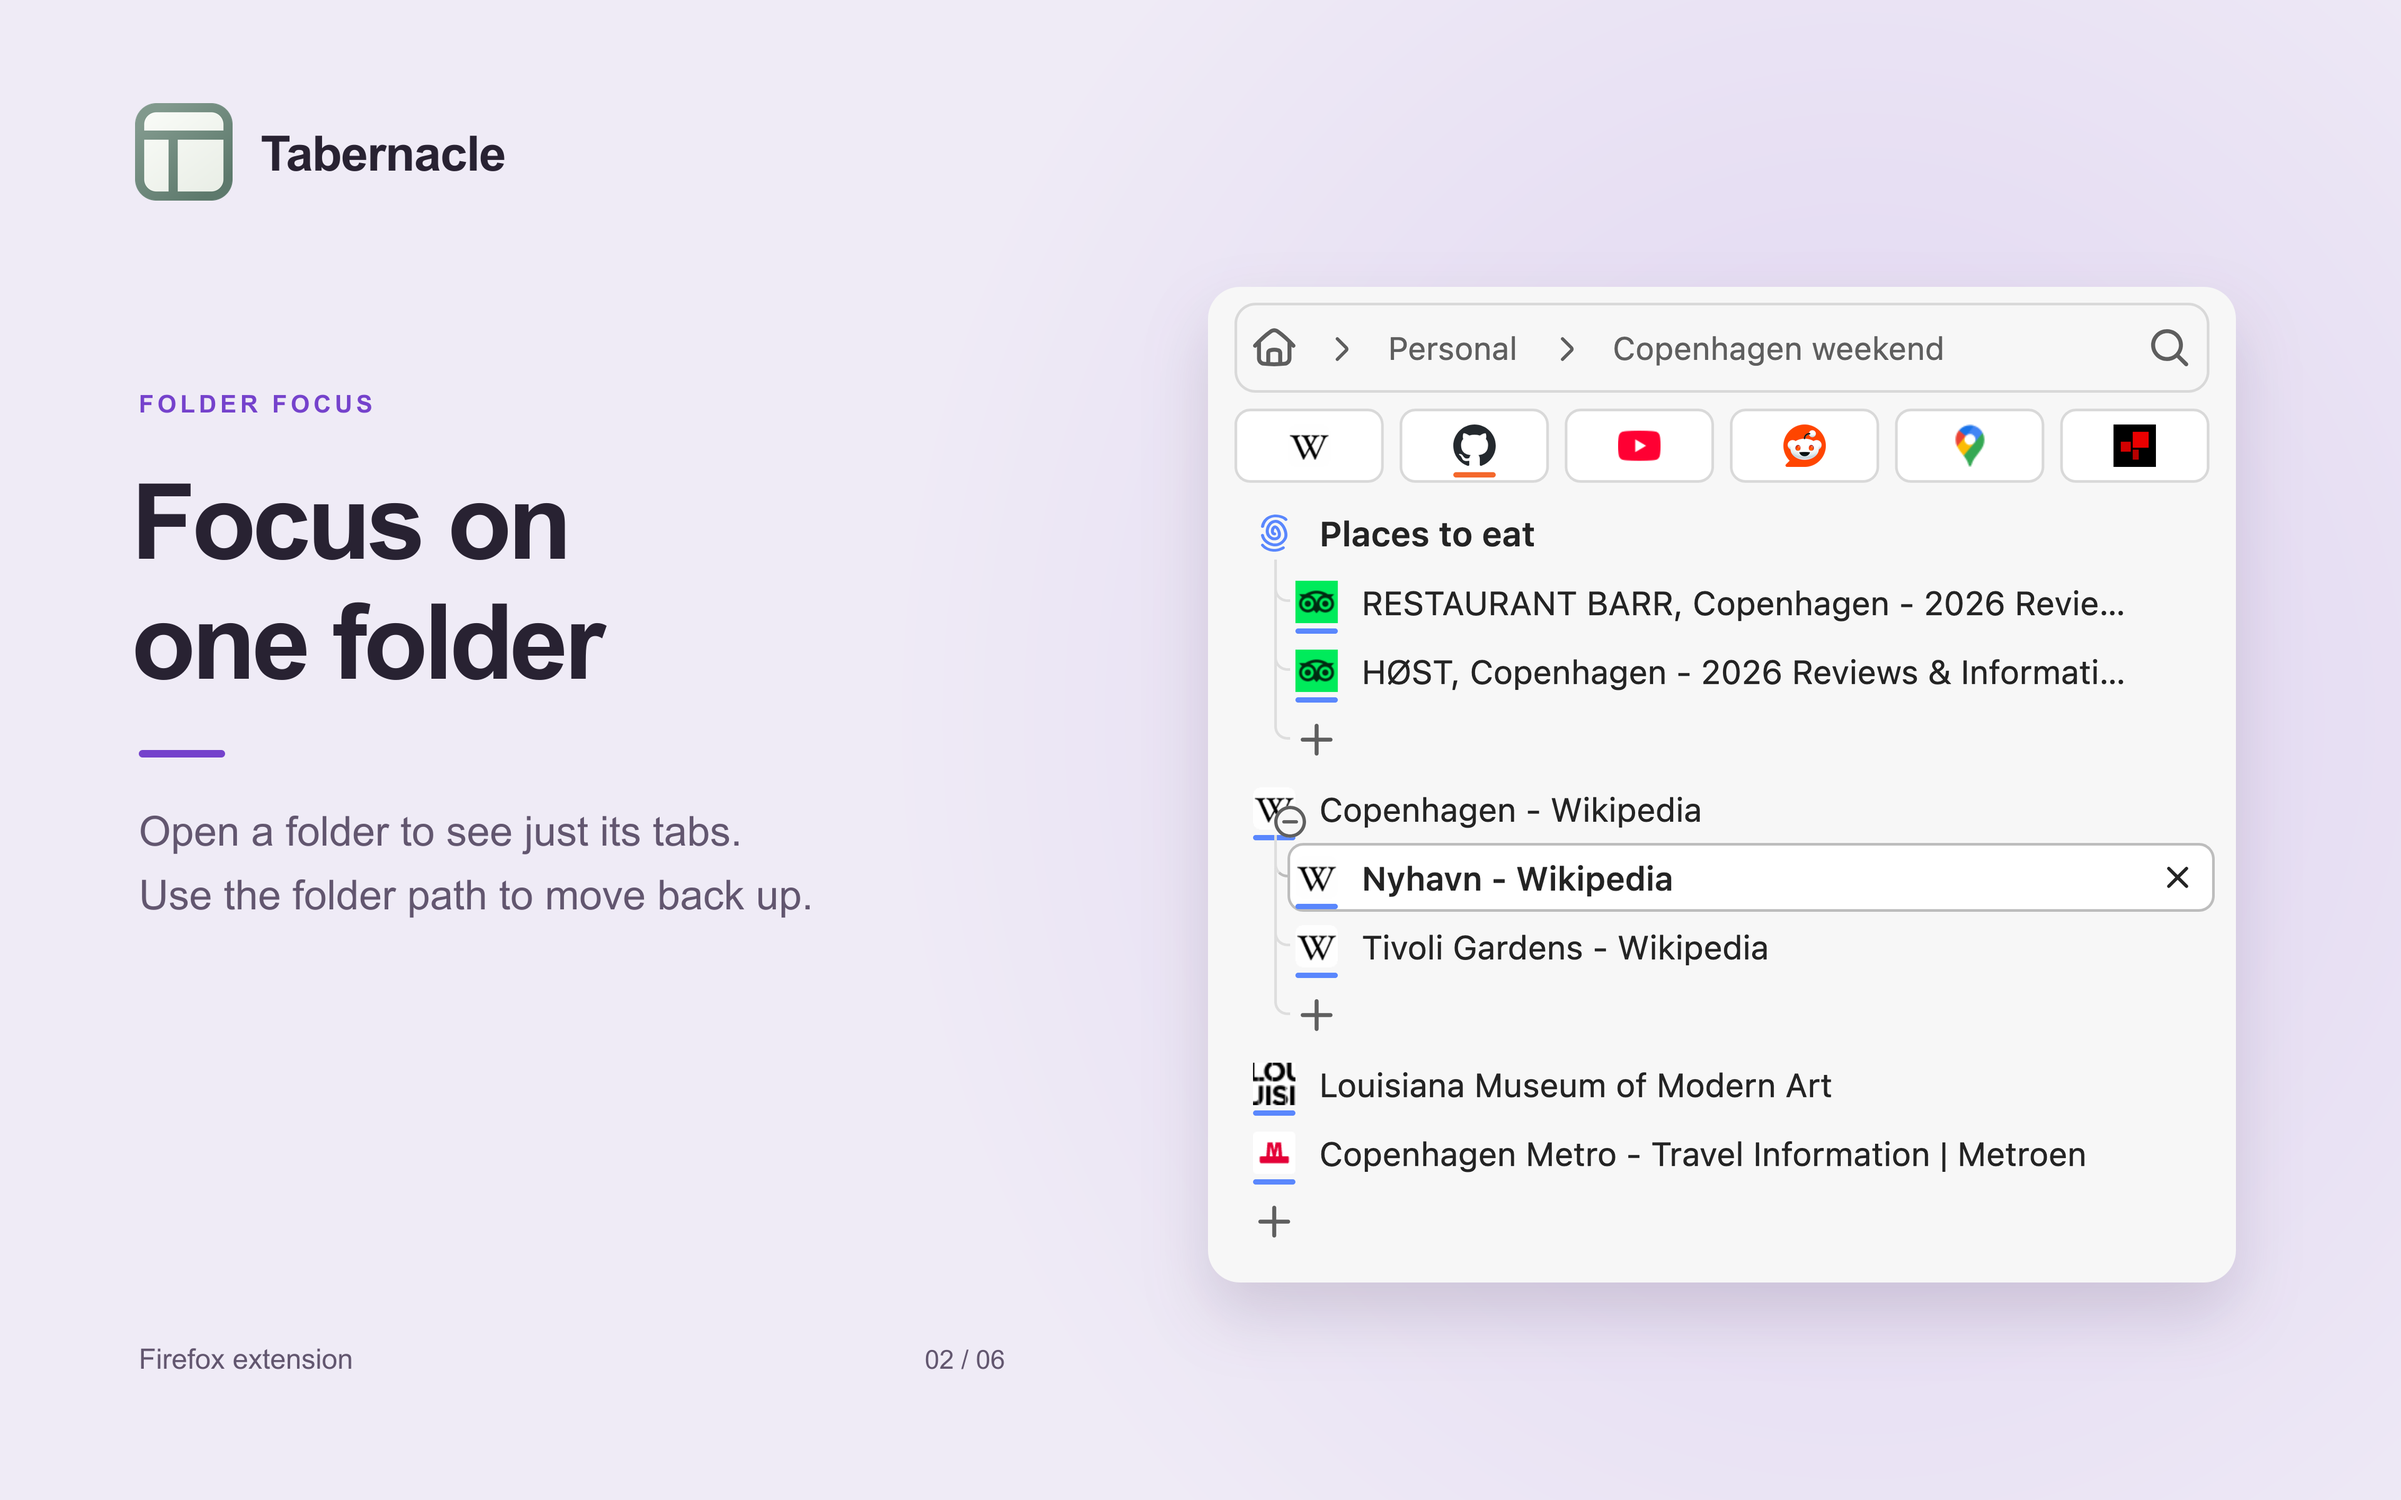
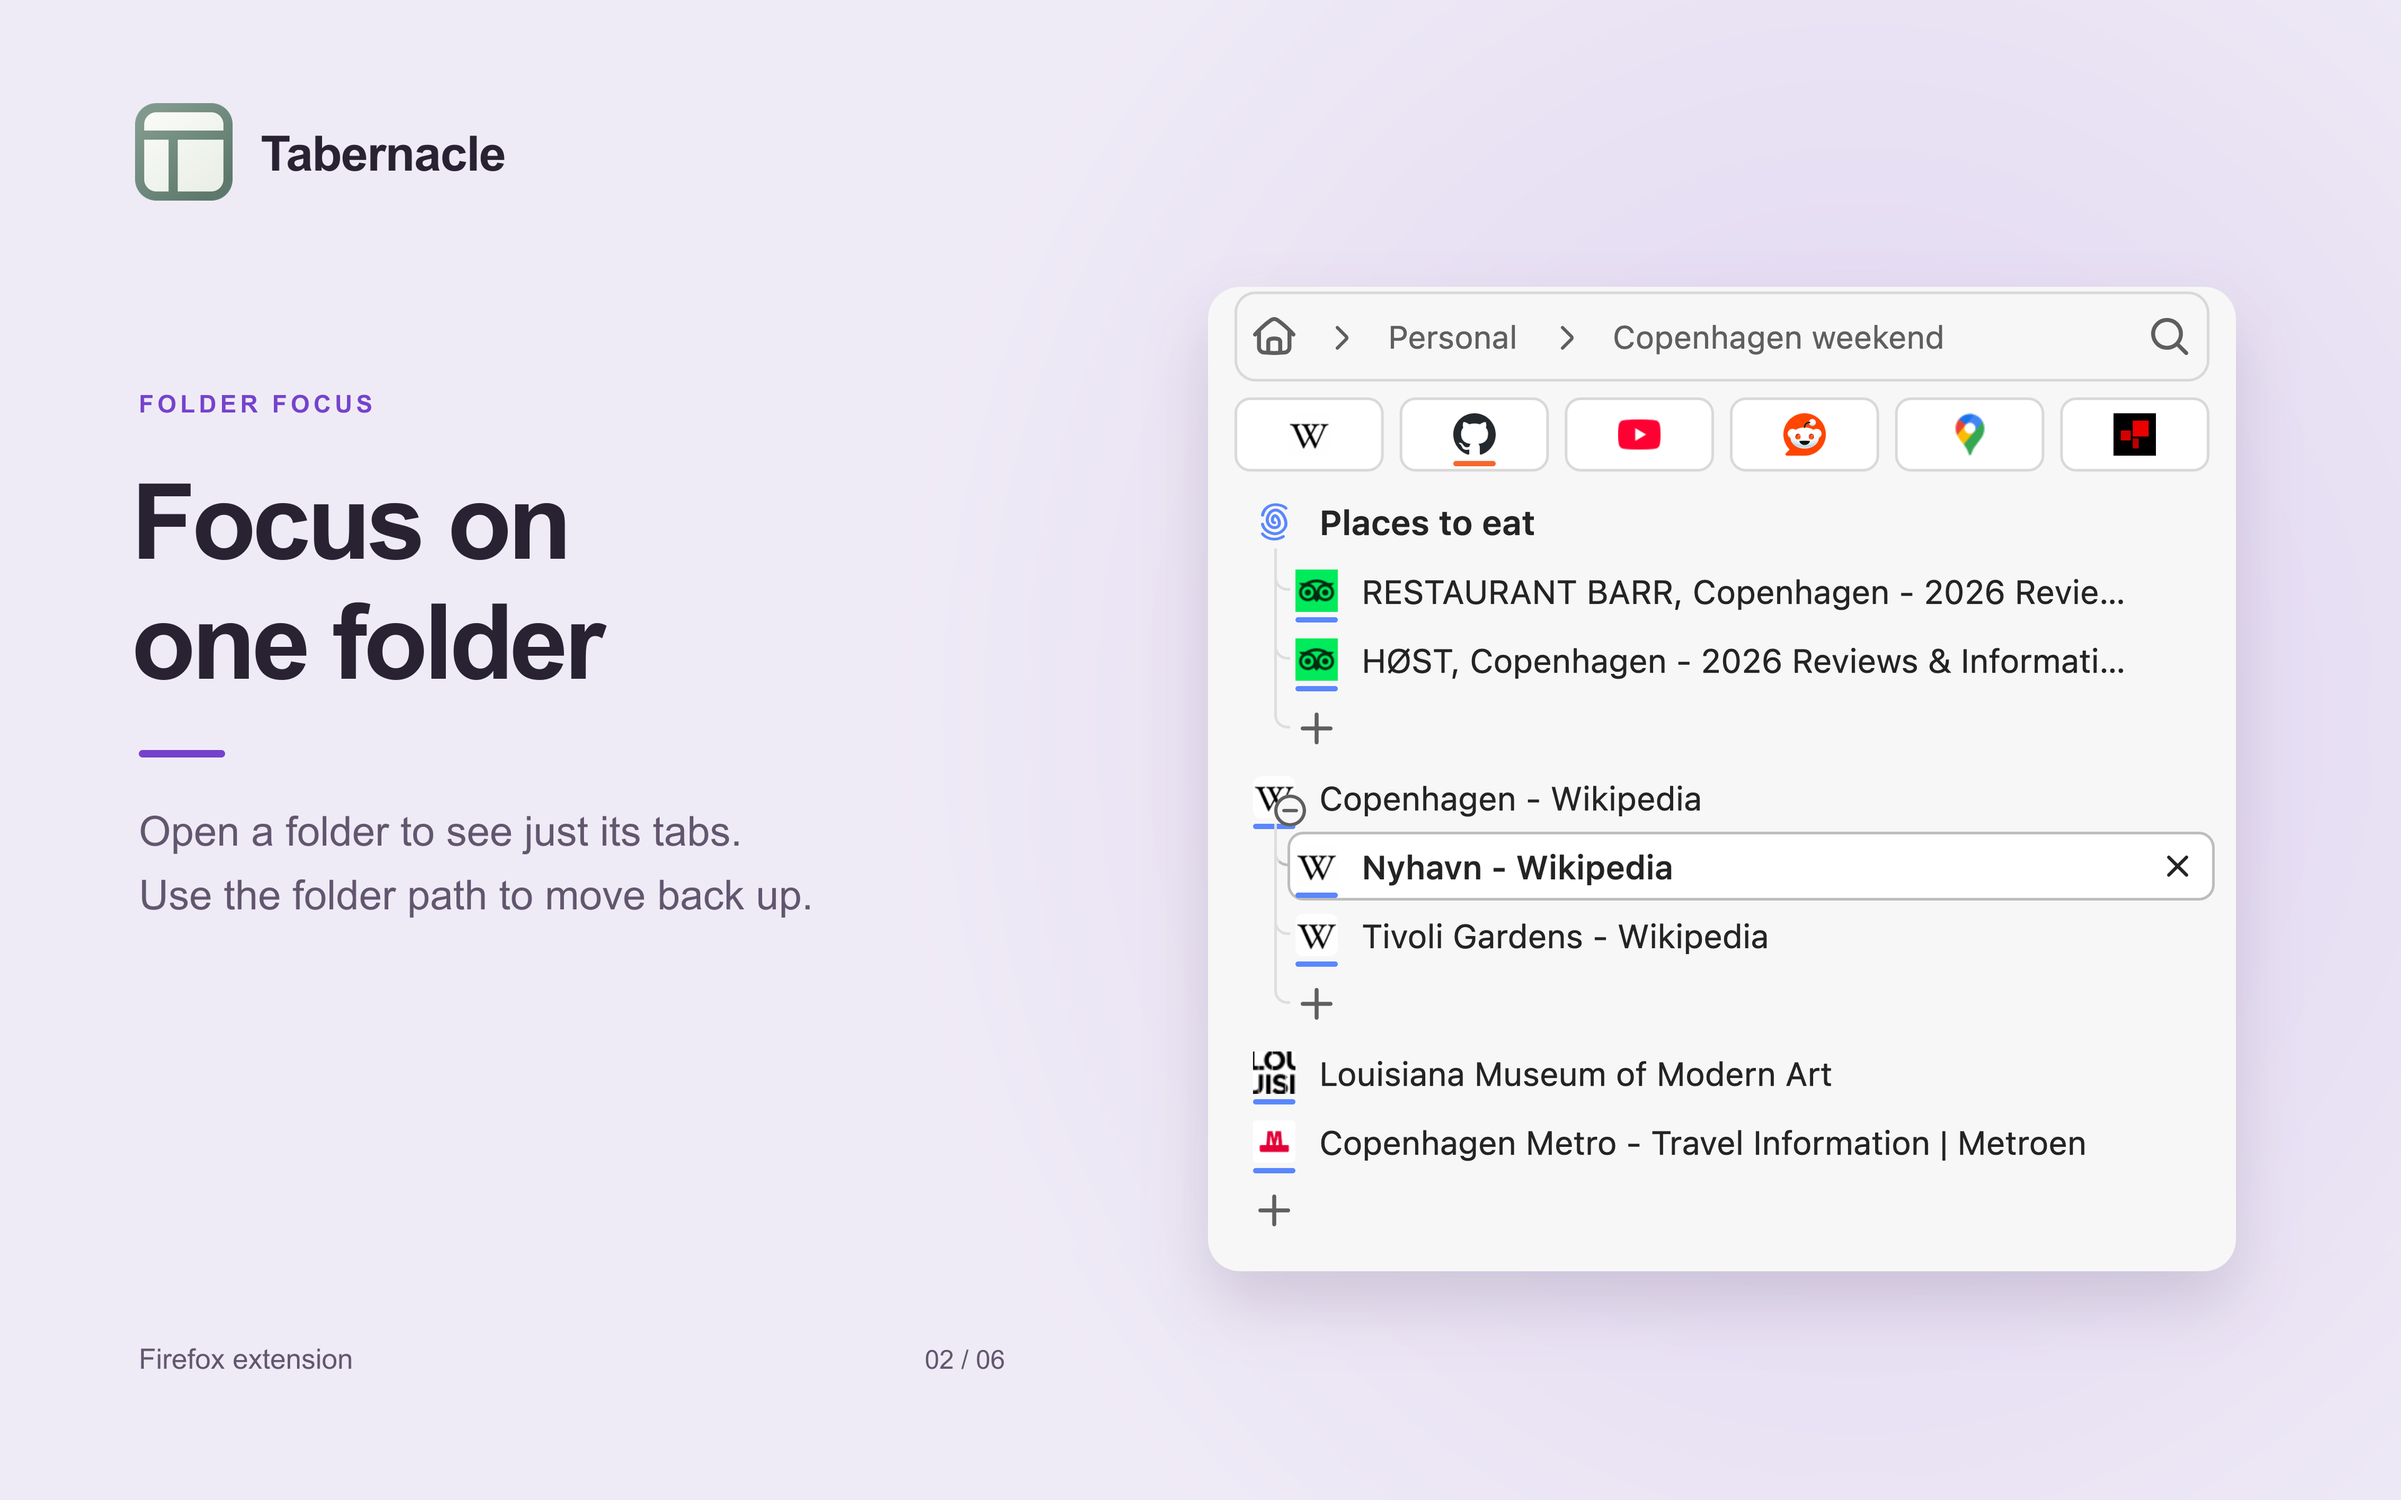
Tighten sidebar spacing

Changed region(s): [[0.5, 0.1875, 0.9062, 0.5], [0.5, 0.5312, 0.9062, 0.7812], [0.5, 0.8438, 0.9375, 0.875]]

diff --git a/extension/sidebar.css b/extension/sidebar.css
@@ -89,7 +89,7 @@ svg {
   min-width: 220px;
 }
 header {
-  padding: 6px 10px 0;
+  padding: 2px 10px 0;
   flex-shrink: 0;
 }
 .navigation-capsule {
